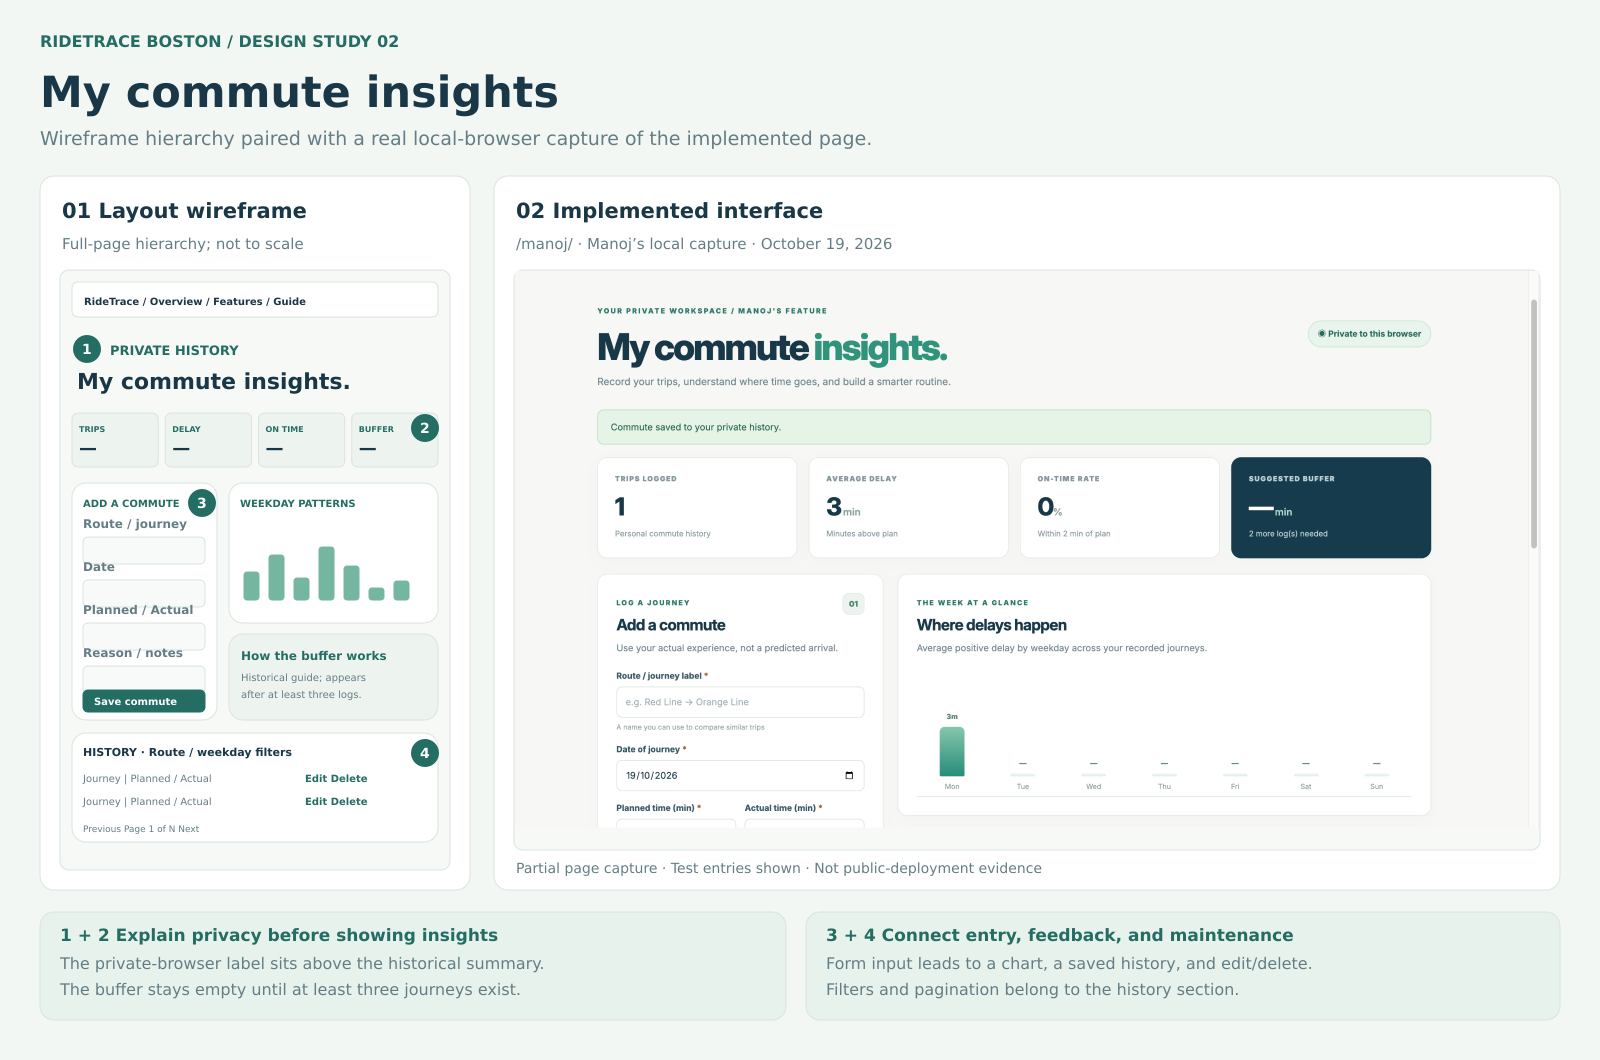
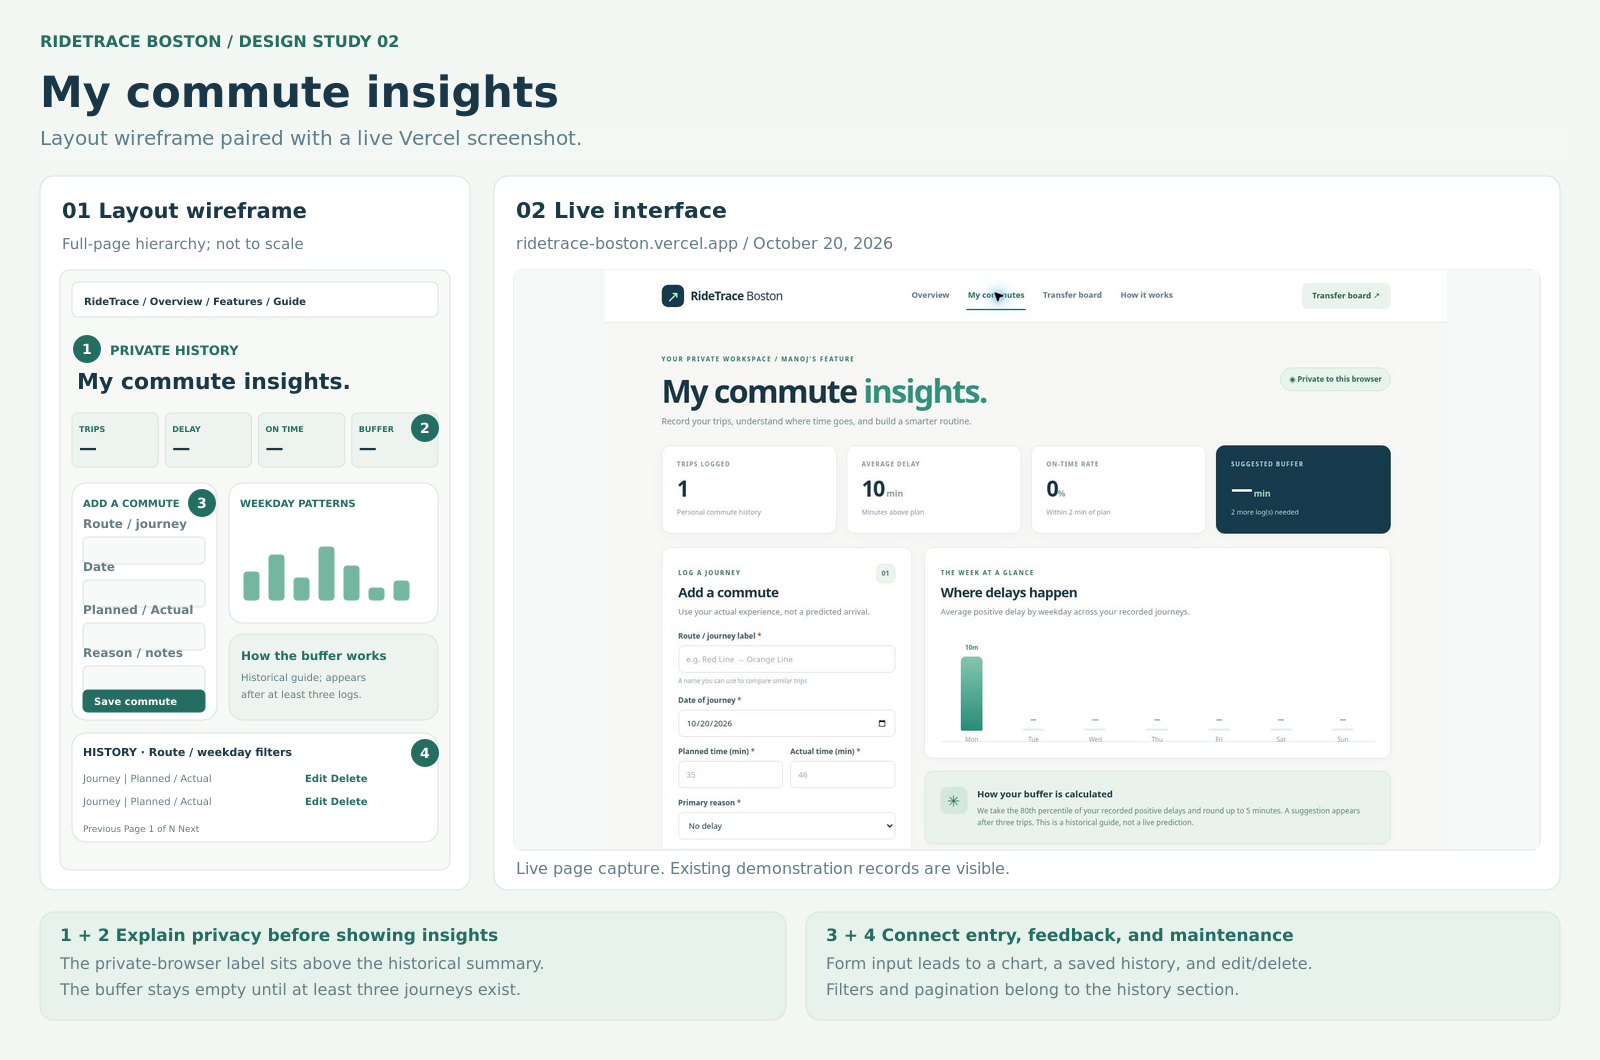
Update live screenshots and project documentation

diff --git a/README.md b/README.md
@@ -3,7 +3,7 @@
 A web app for tracking MBTA commute delays and sharing transfer experiences.
 
 **Authors:** Manoj Harridoss (`@Manojh23`) and Kavya Kusuma Reddy Korem (`@kavya-korem`)  
-**Course:** Northeastern University Web Development — Project 2  
+**Course:** CS5610 Web Development — Project 2  
 **Class links:** [Course project thread](https://webdev-online-neu.slack.com/archives/C09DCBJP2BU/p1759790564109799) · [Architecture video](https://www.youtube.com/watch?v=GqW1K1jHJCc&list=PLmRfPZr9-VoHJ6K1g3URENMAVYPXCQFyw&index=30)  
 **License:** [MIT](LICENSE)
 
@@ -16,19 +16,17 @@ RideTrace helps riders compare planned and actual travel times and learn from ot
 
 The app uses Node.js, Express, the native MongoDB driver, and vanilla JavaScript ES modules. Both features share the server and database connection but use separate editable collections.
 
-## Screenshot
+## Live screenshots
 
-Local transfer page showing imported MBTA stop suggestions. The visible reports are test entries.
+Desktop views captured from [the Vercel website](https://ridetrace-boston.vercel.app) on October 20, 2026. The records shown are demonstration entries.
 
-![Transfer form with MBTA stop suggestions](docs/screenshots/transfers-live.png)
+| Manoj’s commute dashboard                                                                                             | Kavya’s transfer board                                                                                               |
+| --------------------------------------------------------------------------------------------------------------------- | -------------------------------------------------------------------------------------------------------------------- |
+| [![Live commute dashboard](docs/screenshots/commutes-live-20261020.jpg)](docs/screenshots/commutes-live-20261020.jpg) | [![Live transfer board](docs/screenshots/transfers-live-20261020.jpg)](docs/screenshots/transfers-live-20261020.jpg) |
 
 ## Design document
 
-[Read the design document](docs/DESIGN.md) for the project description, user personas, user stories, and mockups.
-
-| Manoj’s dashboard                                                                                                               | Kavya’s transfer board                                                                                                         |
-| ------------------------------------------------------------------------------------------------------------------------------- | ------------------------------------------------------------------------------------------------------------------------------ |
-| [![Commute dashboard wireframe and local screenshot](docs/mockups/commutes-wireframe.png)](docs/mockups/commutes-wireframe.png) | [![Transfer board wireframe and local screenshot](docs/mockups/transfers-wireframe.png)](docs/mockups/transfers-wireframe.png) |
+[Read the design document](docs/DESIGN.md) for the project description, personas, user stories, feature ownership, wireframes, and live screenshots.
 
 ## Build and run
 
@@ -99,7 +97,7 @@ The commute buffer uses the nearest-rank 80th percentile of non-negative delays,
 npm run verify
 ```
 
-This runs 25 tests, ESLint, and Prettier. Individual commands are `npm test`, `npm run lint`, and `npm run format:check`. Tests cover validation, statistics, pagination, session startup, connection reuse, and the hosted HTTP entry point. Automated tests use mock database and DOM implementations. Separate live checks confirmed database health, stop lookup, and commute creation and editing on Vercel. Manoj checked local CRUD and incognito behavior. The automated suite does not verify browser layout or complete live CRUD.
+This runs 25 tests, ESLint, and Prettier. Tests cover validation, statistics, pagination, session startup, connection reuse, and the hosted HTTP entry point. The automated suite uses mock database and DOM implementations. Individual commands are `npm test`, `npm run lint`, and `npm run format:check`.
 
 ## Hosting
 
@@ -112,13 +110,11 @@ The repository includes Vercel’s Express preset in `vercel.json`. Vercel uses 
 | `APP_SECRET`              | A stable random secret of at least 32 characters |
 | `NODE_ENV`                | `production`                                     |
 
-These variables are needed for both Production and Preview deployments. The Atlas network access list must allow connections from the deployment. The stop catalog belongs in that hosted database; a local import does not populate Atlas. The existing seed command can import it when `.env` points to Atlas.
+The deployed app reads these values on the server. The frontend calls the Express API and receives JSON, without receiving the Atlas connection string or application secret. `.env` files are excluded from Git.
 
-The production website is [RideTrace Boston](https://ridetrace-boston.vercel.app). Vercel hosts the app, and MongoDB Atlas stores its data. The database health check and stop lookup return successful responses. The local server still runs through `npm start`.
+Both features use the Atlas database `ridetrace_boston`. Manoj’s records use `commuteLogs`, Kavya’s reports use `transferReports`, and the read-only `mbtaStops` catalog provides official stop-name suggestions. The catalog contains more than 1,000 documents. User-created commute and transfer records are separate from the reference data.
 
-Both features use the same Atlas database, `ridetrace_boston`: Manoj uses `commuteLogs`, Kavya uses `transferReports`, and the shared stop lookup uses `mbtaStops`. Atlas contains 8,035 distinct official stop IDs. The importer updates records by stop ID, removes identical duplicates, and creates a unique stop-ID index.
-
-The current deployment was uploaded directly. Deployment is manual; GitHub pushes do not currently trigger a Vercel deployment.
+The public website is [RideTrace Boston](https://ridetrace-boston.vercel.app). The deployment uses Vercel’s Express preset and a reusable MongoDB connection. Local development uses `npm start`.
 
 ## Data source and attribution
 
@@ -126,5 +122,4 @@ Stop data: [MBTA / MassDOT GTFS feed](https://cdn.mbta.com/MBTA_GTFS.zip) and [M
 
 ## AI-use disclosure
 
-AI tools helped with MBTA research, planning.Implementation and documentation is done by us.
-
+AI assistance supported research, planning, implementation, tests, documentation, and the project thumbnail. The team is responsible for the submitted application.

diff --git a/docs/DESIGN.md b/docs/DESIGN.md
@@ -2,7 +2,7 @@
 
 **Team:** Manoj Harridoss and Kavya Kusuma Reddy Korem  
 **Course:** CS5610 — Project 2  
-**Date:** October 19, 2026
+**Date:** October 20, 2026
 
 ## 1. Project description
 
@@ -54,7 +54,7 @@ These are fictional riders used to guide the design.
 
 | Story | Expected behavior                                                                                                                     |
 | ----- | ------------------------------------------------------------------------------------------------------------------------------------- |
-| K1    | Valid reports are saved in MongoDB and appear publicly. MBTA stop suggestions are available after importing the catalog.              |
+| K1    | Valid reports are saved in MongoDB and appear publicly. MBTA stop suggestions use the imported reference catalog.                     |
 | K2    | Filters update the feed and matching statistics. Reports show dates, transfer times, and unverified labels. Older reports are marked. |
 | K3    | Only the originating browser sees owner controls. The backend also checks ownership for updates and deletions.                        |
 
@@ -69,23 +69,23 @@ Each teammate’s feature includes its own frontend, API routes, validation, sta
 
 ## 4. Design mockups
 
-The boards show simplified wireframes beside interface pictures. The overview uses a concept image; the two feature boards use Manoj’s local screenshots with test entries. The mobile board shows the planned layout rather than a tested phone capture.
+The desktop boards pair the original layout wireframes with screenshots captured from the public Vercel app on October 20, 2026. The dashboard screenshots show existing demonstration records. The mobile board remains a layout wireframe.
 
 ### Overview
 
-![Overview wireframe and interface concept](mockups/overview-wireframe.png)
+![Overview wireframe and live Vercel screenshot](mockups/overview-wireframe.png)
 
 The home page explains the app and links directly to either feature. Shared navigation also links to the usage guide.
 
 ### Manoj’s commute dashboard
 
-![Commute dashboard wireframe and local screenshot](mockups/commutes-wireframe.png)
+![Commute dashboard wireframe and live Vercel screenshot](mockups/commutes-wireframe.png)
 
 The page places private-history information and summary cards first. Below them are the entry form, weekday chart, buffer explanation, and history table. The history includes filters and Edit/Delete controls.
 
 ### Kavya’s transfer board
 
-![Transfer board wireframe and local screenshot](mockups/transfers-wireframe.png)
+![Transfer board wireframe and live Vercel screenshot](mockups/transfers-wireframe.png)
 
 The page shows the unverified-report notice and statistics above the form and public feed. Entry fields and feed filters are separate. Reports show dates, routes, durations, and owner controls where allowed.
 
@@ -93,7 +93,7 @@ The page shows the unverified-report notice and statistics above the form and pu
 
 ![Mobile wireframes for both features](mockups/mobile-wireframe.png)
 
-On narrower screens, the workspace stacks vertically and navigation wraps. Form fields become one column on small phones. The commute table can scroll inside its panel, and long report text wraps. These are layout goals; real mobile testing has not been recorded.
+On narrower screens, the workspace stacks vertically and navigation wraps. Form fields become one column on small phones. The commute table can scroll inside its panel, and long report text wraps. The mobile board illustrates this responsive layout.
 
 ### Common design choices
 
@@ -104,6 +104,14 @@ On narrower screens, the workspace stacks vertically and navigation wraps. Form 
 - Text notices explain saved changes, errors, privacy, and unverified reports.
 
 [Image sources and captions](mockups/README.md)
+
+### Live history and public feed
+
+The commute history includes owner controls and pagination. The transfer feed combines public reports with owner controls for the originating browser.
+
+| Commute history                                                                                                           | Transfer feed                                                                                                       |
+| ------------------------------------------------------------------------------------------------------------------------- | ------------------------------------------------------------------------------------------------------------------- |
+| [![Live commute history](screenshots/commutes-history-live-20261020.jpg)](screenshots/commutes-history-live-20261020.jpg) | [![Live transfer feed](screenshots/transfers-feed-live-20261020.jpg)](screenshots/transfers-feed-live-20261020.jpg) |
 
 ## 5. Technical notes
 

diff --git a/docs/mockups/README.md b/docs/mockups/README.md
@@ -1,12 +1,14 @@
 # Design images
 
-| Board                                       | Source                                                    |
-| ------------------------------------------- | --------------------------------------------------------- |
-| [Overview](overview-wireframe.png)          | Wireframe beside the original overview concept image      |
-| [Commute dashboard](commutes-wireframe.png) | Wireframe beside Manoj’s local screenshot, `image(3).png` |
-| [Transfer board](transfers-wireframe.png)   | Wireframe beside Manoj’s local screenshot, `image(4).png` |
-| [Mobile](mobile-wireframe.png)              | Layout drawings for both features                         |
+The desktop boards pair layout wireframes with actual screenshots from the public Vercel website captured on October 20, 2026. The mobile board is a wireframe.
 
-The boards were prepared on October 19, 2026 to explain the current design. Feature screenshots show test entries and exclude browser chrome. They predate the pagination/mobile styling update. The overview is illustrative; the mobile drawings are not screenshots or evidence of device testing.
+| Board                                       | Screenshot source                                                              |
+| ------------------------------------------- | ------------------------------------------------------------------------------ |
+| [Overview](overview-wireframe.png)          | [Live overview](../screenshots/overview-live-20261020.jpg) at `/`              |
+| [Commute dashboard](commutes-wireframe.png) | [Live dashboard](../screenshots/commutes-live-20261020.jpg) at `/manoj/`       |
+| [Transfer board](transfers-wireframe.png)   | [Live transfer board](../screenshots/transfers-live-20261020.jpg) at `/kavya/` |
+| [Mobile](mobile-wireframe.png)              | Responsive layout wireframes for both features                                 |
 
-The [stop-suggestion screenshot](../screenshots/transfers-live.png) shows imported MBTA reference names in the transfer form. Original concept images are retained as `overview-concept.png`, `commutes-concept.png`, and `transfers-concept.png`.
+The live captures retain the interface and existing demonstration records. The overview’s illustrative card belongs to the actual home page. The interface pictures are screenshots, while the wireframes explain layout and interaction choices.
+
+Original concept illustrations remain in this folder as `overview-concept.png`, `commutes-concept.png`, and `transfers-concept.png`. The [earlier stop-suggestion capture](../screenshots/transfers-live.png) documents the imported reference catalog.
